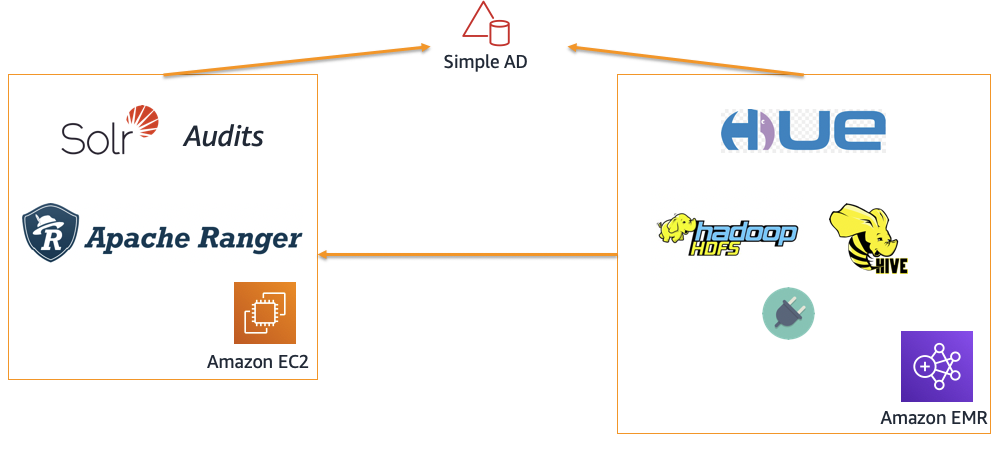
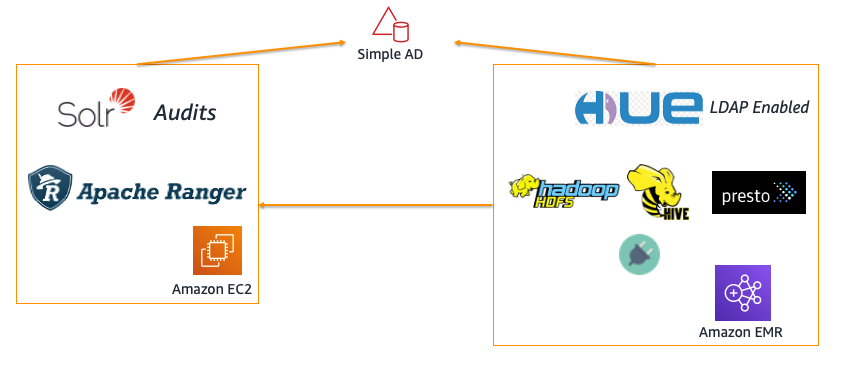
Adding V2 Readme updates

diff --git a/README.md b/README.md
@@ -17,12 +17,14 @@ The repo contains code tied to [AWS Big Data Blog](https://aws.amazon.com/blogs/
 | Module |  Architecture | Description |
 | ---------------- |  --- |-------------------------------------------------------- |
 | [Basic setup with LDAP](aws_emr_blog_v1) |  ![](images/simple-ad-setup.png) | Basic deployment using [AWS Simple AD](https://docs.aws.amazon.com/directoryservice/latest/admin-guide/directory_simple_ad.html), Hive and HDFS plugins and optional Presto Plugin|
+| [Kerberos enabled setup with AD/LDAP](aws_emr_blog_v1) |  ![](images/emr-ranger-v2.png) | Basic deployment using [AWS Simple AD](https://docs.aws.amazon.com/directoryservice/latest/admin-guide/directory_simple_ad.html), Hive and HDFS plugins and optional Presto Plugin|
 
 ### Compatibility/Supported plugins: 
 | Module|  Tag | Cloudformation stack | Apache Ranger Version | EMR Version | Supported Plugins|
 | -------| --- | --- | --- | --- |-------------------------------------------------------- |
 | V1 | [1.0](https://github.com/aws-samples/aws-emr-apache-ranger/tree/1.0) | [![Foo](images/launch_stack.png)](https://console.aws.amazon.com/cloudformation/home?region=us-east-1#/stacks/new?stackName=EMRSecurityWithRangerBlogV1&templateURL=https://s3.amazonaws.com/aws-bigdata-blog/artifacts/aws-blog-emr-ranger/1.0/cloudformation/nestedstack.template) | Apache Ranger 1.0, 2.1 | emr-5.28.1, emr-5.29.0, emr-5.30.1| Hive 2.x, Hadoop 2.x, PrestoDB 0.227/0.232 (Presto plugin needs Ranger 2.0) | 
 | V1 | [1.1](https://github.com/aws-samples/aws-emr-apache-ranger/tree/1.1) | [![Foo](images/launch_stack.png)](https://console.aws.amazon.com/cloudformation/home?region=us-east-1#/stacks/new?stackName=EMRSecurityWithRangerBlogV1&templateURL=https://s3.amazonaws.com/aws-bigdata-blog/artifacts/aws-blog-emr-ranger/1.1/cloudformation/nestedstack.template) | Apache Ranger 2.2 | emr-5.29.0, emr-5.30.1, emr-6.1.0 | Hive 3.x, Hadoop 3.x, PrestoSQL 338 OR PrestoDB 0.232 | 
+| V2 (Preview) | [2.0](https://github.com/aws-samples/aws-emr-apache-ranger/tree/emr-ranger-2.0) | [![Foo](images/launch_stack.png)](https://console.aws.amazon.com/cloudformation/home?region=us-east-1#/stacks/new?stackName=EMRSecurityWithRangerBlogV2&templateURL=https://s3.amazonaws.com/aws-bigdata-blog/artifacts/aws-blog-emr-ranger/2.0/cloudformation/nestedstack.template) | Apache Ranger 2.1 | emr-5.30.1 | Hive 2.x, Hadoop 2.x, PrestoDB 0.227/0.232 (Presto plugin needs Ranger 2.0) | 
 
 > WARNING: The current V1 setup does not enable strong cluster level Auth (Kerberos) for EMR. Only LDAP enabled Hue UI. V2 will support Kerberos - refer to the [roadmap](https://github.com/aws-samples/aws-emr-apache-ranger/projects/1) for details.
 ### PrestoSQL Ranger plugin (EMR 6.1 & Ranger 2.2)
